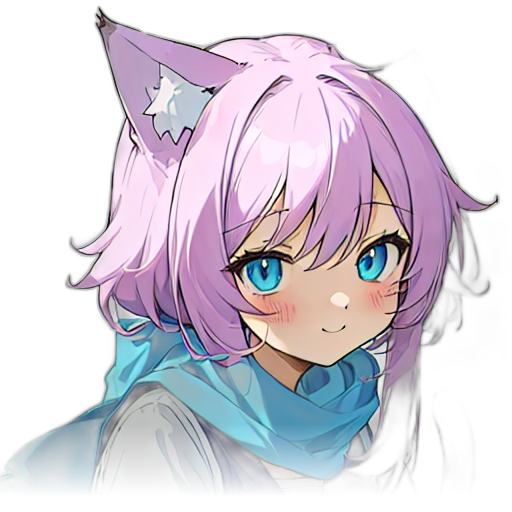
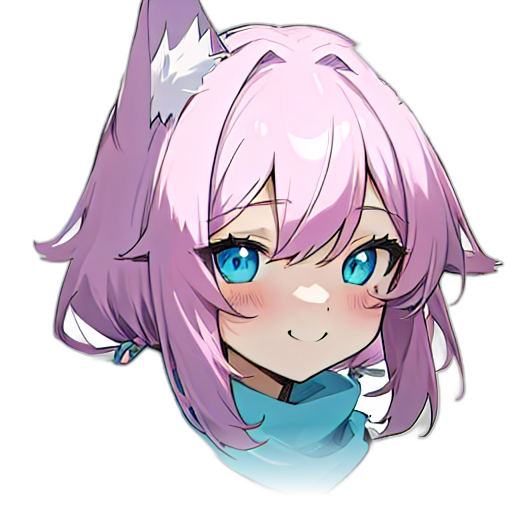
art: Phase 58 - poco 양쪽 고양이 귀 수정
two cat ears visible:1.5 + both ears on top of head 강화

diff --git a/tools/gen_portraits.py b/tools/gen_portraits.py
@@ -71,7 +71,7 @@ CHARACTERS = [
     },
     {
         "id": "poco",
-        "prompt": f"(masterpiece, best quality, official art), cute chibi anime style, (upper body portrait:1.3), white background, simple background, soft anime shading, clean lineart, 2d illustration, centered composition, (cat girl:1.3), nekomimi, white fluffy hair, cat ears, big expressive blue eyes, pink scarf, cute small vest, charming mischievous smile, waist up",
+        "prompt": f"(masterpiece, best quality, official art), cute chibi anime style, (upper body portrait:1.3), white background, simple background, soft anime shading, clean lineart, 2d illustration, centered composition, (cat girl:1.3), nekomimi, (two cat ears visible:1.5), both ears on top of head, white fluffy hair, big expressive blue eyes, pink scarf, cute small vest, charming mischievous smile, waist up, facing viewer",
         "negative": f"{BASE_NEG}, {NO_BG_DECO}, human only, no cat ears, full body",
     },
 ]
